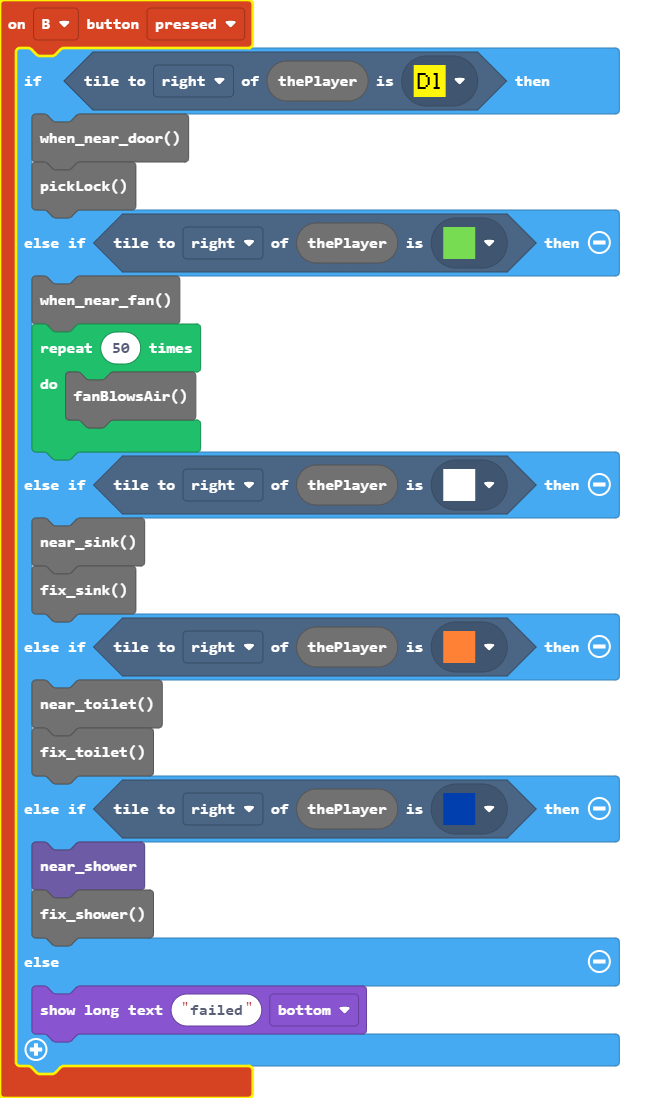
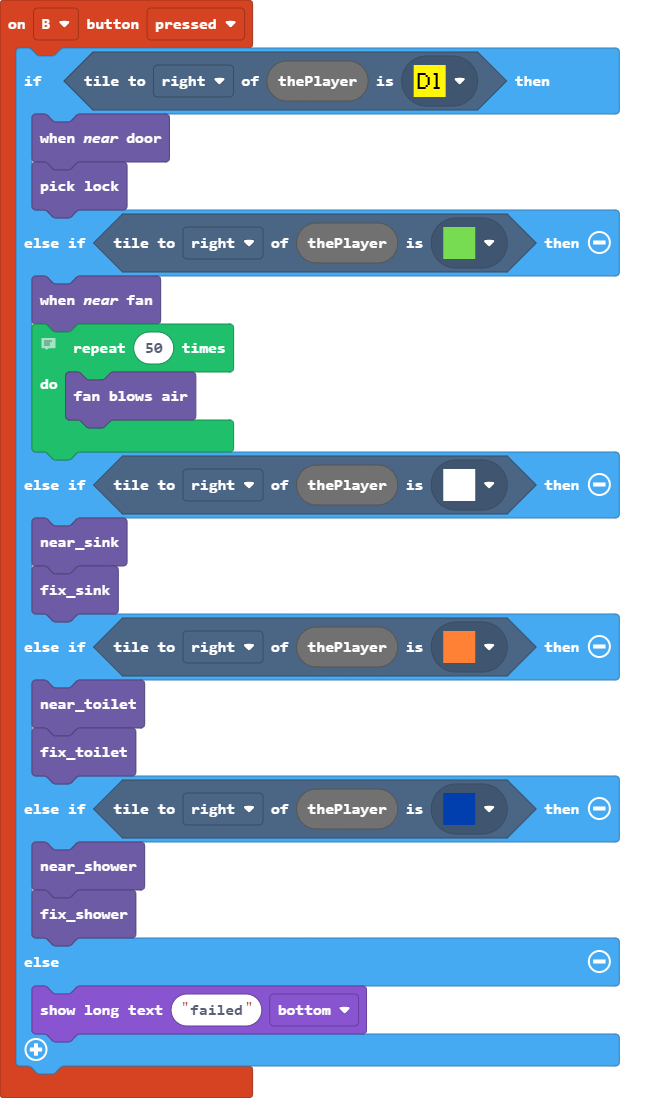
all new blocks in name.ts

Changed region(s): [[0.0, 0.0, 0.3875, 1.0]]

diff --git a/extension.ts b/extension.ts
@@ -34,17 +34,7 @@ sprites.onOverlap(SpriteKind.Projectile, SpriteKind.DustBunny, function (sprite,
     otherSprite.setVelocity(0, 50)
     sprite.destroy()
 })
-// testing
 
-function fix_shower () {
-    if (showerIsFixed) {
-        for (let index = 0; index <= 6; index++) {
-            tiles.setWallAt(tiles.getTileLocation(37, index + 2), false)
-            tiles.setTileAt(tiles.getTileLocation(37, index + 2), sprites.dungeon.floorLight0)
-            pause(200)
-        }
-    }
-}
 sprites.onOverlap(SpriteKind.Player, SpriteKind.DustBunny, function (sprite, otherSprite) {
     dustBunny.startEffect(effects.clouds)
     game.showLongText("Too much dust!", DialogLayout.Bottom)
@@ -67,11 +57,7 @@ function challenge1 () {
     nearDoor = false
     talkedToBear = true
 }
-function near_sink () {
-    if (thePlayer.tileKindAt(TileDirection.Right, myTiles.tile15)) {
-        sinkIsFixed = true
-    }
-}
+
 // interact with npc and other things
 controller.A.onEvent(ControllerButtonEvent.Pressed, function () {
     if (thePlayer.tileKindAt(TileDirection.Right, myTiles.tile5)) {
@@ -93,16 +79,8 @@ controller.A.onEvent(ControllerButtonEvent.Pressed, function () {
     	
     }
 })
-function near_toilet () {
-    if (thePlayer.tileKindAt(TileDirection.Right, myTiles.tile16)) {
-        toiletIsFixed = true
-    }
-}
-function when_near_door () {
-    if (thePlayer.tileKindAt(TileDirection.Right, myTiles.tile5)) {
-        nearDoor = true
-    }
-}
+
+
 /**
  * GOAL --
  * 
@@ -110,88 +88,18 @@ function when_near_door () {
  * 
  *     pickLock
  */
-function pickLock () {
-    // replace if with 'when near door'
-    if (nearDoor) {
-        tiles.setTileAt(tiles.getTileLocation(9, 5), myTiles.tile11)
-        tiles.setWallAt(tiles.getTileLocation(9, 5), false)
-    } else {
-        game.showLongText("The door is still locked", DialogLayout.Bottom)
-    }
-}
-function fix_sink () {
-    if (sinkIsFixed) {
-        for (let index = 0; index <= 6; index++) {
-            tiles.setWallAt(tiles.getTileLocation(35, index + 2), false)
-            tiles.setTileAt(tiles.getTileLocation(35, index + 2), sprites.dungeon.floorLight0)
-            pause(200)
-        }
-    }
-}
+
+
 scene.onOverlapTile(SpriteKind.Player, myTiles.tile11, function (sprite, location) {
     tiles.placeOnTile(thePlayer, tiles.getTileLocation(17, 5))
     createDustBunnies()
 })
-function when_near_fan () {
-    if (thePlayer.tileKindAt(TileDirection.Right, myTiles.tile12) || (thePlayer.tileKindAt(TileDirection.Top, myTiles.tile12) || thePlayer.tileKindAt(TileDirection.Left, myTiles.tile12))) {
-        fanOn = true
-    }
-}
+
 function challenge3 () {
     game.showLongText("The sink, the toilet, and the shower are flooded!", DialogLayout.Bottom)
     game.showLongText("You'll have to fix each to stop the flooding.", DialogLayout.Bottom)
 }
-function fanBlowsAir () {
-    if (fanOn) {
-        fan = sprites.create(img`
-            7 7 7 7 7 7 7 7 7 7 7 7 7 7 7 7 
-            7 7 7 7 7 7 7 7 7 7 7 7 7 7 7 7 
-            7 7 7 7 7 7 7 7 7 7 7 7 7 7 7 7 
-            7 7 7 7 7 7 7 7 7 7 7 7 7 7 7 7 
-            7 7 7 7 7 7 7 7 7 7 7 7 7 7 7 7 
-            7 7 7 7 7 7 7 7 7 7 7 7 7 7 7 7 
-            7 7 7 7 7 7 7 7 7 7 7 7 7 7 7 7 
-            7 7 7 7 7 7 7 7 7 7 7 7 7 7 7 7 
-            7 7 7 7 7 7 7 7 7 7 7 7 7 7 7 7 
-            7 7 7 7 7 7 7 7 7 7 7 7 7 7 7 7 
-            7 7 7 7 7 7 7 7 7 7 7 7 7 7 7 7 
-            7 7 7 7 7 7 7 7 7 7 7 7 7 7 7 7 
-            7 7 7 7 7 7 7 7 7 7 7 7 7 7 7 7 
-            7 7 7 7 7 7 7 7 7 7 7 7 7 7 7 7 
-            7 7 7 7 7 7 7 7 7 7 7 7 7 7 7 7 
-            7 7 7 7 7 7 7 7 7 7 7 7 7 7 7 7 
-            `, SpriteKind.Fan)
-        tiles.placeOnRandomTile(fan, myTiles.tile12)
-        projectile = sprites.createProjectileFromSprite(img`
-            . . . . . . . . . . . . . . . . 
-            . . . . . . . 9 . . . . . . . . 
-            . . . . . . . 9 . . . . . . . . 
-            . . . . . 9 9 . . . . . . . . . 
-            . . . . 9 9 . . . . . . . . . . 
-            . . . . . . . . . . . . . . . . 
-            . . . 9 . . 9 9 . . . . . . . . 
-            . . . 9 . 9 9 9 9 . . . . . . . 
-            . . . 9 . 9 . . 9 . 9 . . . . . 
-            . . . 9 . . . 9 . . . 9 . . . . 
-            . . . 9 9 9 9 9 . . . . 9 . . . 
-            . . . . . . . . 9 9 . . 9 . . . 
-            . . . . . . . 9 9 9 9 . 9 . . . 
-            . . . . . . . 9 . . 9 . 9 9 . . 
-            . . . . . . . 9 9 . . . 9 . . . 
-            . . . . . . . . 9 9 9 9 9 . . . 
-            `, fan, 0, 50)
-    }
-    pause(200)
-}
-function fix_toilet () {
-    if (toiletIsFixed) {
-        for (let index = 0; index <= 6; index++) {
-            tiles.setWallAt(tiles.getTileLocation(36, 7 - index), false)
-            tiles.setTileAt(tiles.getTileLocation(36, 7 - index), sprites.dungeon.floorLight0)
-            pause(200)
-        }
-    }
-}
+
 function createDustBunnies () {
     for (let value of tiles.getTilesByType(myTiles.tile10)) {
         dustBunny = sprites.create(img`

diff --git a/name.ts b/name.ts
@@ -1,8 +1,115 @@
 namespace hoc {
-//% block
-export function near_shower () {
-    if (thePlayer.tileKindAt(TileDirection.Right, myTiles.tile17)) {
-        showerIsFixed = true
+    //%block
+    export function when_near_door () {
+        if (thePlayer.tileKindAt(TileDirection.Right, myTiles.tile5)) {
+            nearDoor = true
+        }
     }
-}
+    //%block
+    export function pickLock () {
+        // replace if with 'when near door'
+        if (nearDoor) {
+            tiles.setTileAt(tiles.getTileLocation(9, 5), myTiles.tile11)
+            tiles.setWallAt(tiles.getTileLocation(9, 5), false)
+        } else {
+            game.showLongText("The door is still locked", DialogLayout.Bottom)
+        }
+    }
+    //%block
+    export function when_near_fan () {
+        if (thePlayer.tileKindAt(TileDirection.Right, myTiles.tile12) || (thePlayer.tileKindAt(TileDirection.Top, myTiles.tile12) || thePlayer.tileKindAt(TileDirection.Left, myTiles.tile12))) {
+            fanOn = true
+        }
+    }
+    //%block
+    export function fanBlowsAir () {
+        if (fanOn) {
+            fan = sprites.create(img`
+                7 7 7 7 7 7 7 7 7 7 7 7 7 7 7 7 
+                7 7 7 7 7 7 7 7 7 7 7 7 7 7 7 7 
+                7 7 7 7 7 7 7 7 7 7 7 7 7 7 7 7 
+                7 7 7 7 7 7 7 7 7 7 7 7 7 7 7 7 
+                7 7 7 7 7 7 7 7 7 7 7 7 7 7 7 7 
+                7 7 7 7 7 7 7 7 7 7 7 7 7 7 7 7 
+                7 7 7 7 7 7 7 7 7 7 7 7 7 7 7 7 
+                7 7 7 7 7 7 7 7 7 7 7 7 7 7 7 7 
+                7 7 7 7 7 7 7 7 7 7 7 7 7 7 7 7 
+                7 7 7 7 7 7 7 7 7 7 7 7 7 7 7 7 
+                7 7 7 7 7 7 7 7 7 7 7 7 7 7 7 7 
+                7 7 7 7 7 7 7 7 7 7 7 7 7 7 7 7 
+                7 7 7 7 7 7 7 7 7 7 7 7 7 7 7 7 
+                7 7 7 7 7 7 7 7 7 7 7 7 7 7 7 7 
+                7 7 7 7 7 7 7 7 7 7 7 7 7 7 7 7 
+                7 7 7 7 7 7 7 7 7 7 7 7 7 7 7 7 
+                `, SpriteKind.Fan)
+            tiles.placeOnRandomTile(fan, myTiles.tile12)
+            projectile = sprites.createProjectileFromSprite(img`
+                . . . . . . . . . . . . . . . . 
+                . . . . . . . 9 . . . . . . . . 
+                . . . . . . . 9 . . . . . . . . 
+                . . . . . 9 9 . . . . . . . . . 
+                . . . . 9 9 . . . . . . . . . . 
+                . . . . . . . . . . . . . . . . 
+                . . . 9 . . 9 9 . . . . . . . . 
+                . . . 9 . 9 9 9 9 . . . . . . . 
+                . . . 9 . 9 . . 9 . 9 . . . . . 
+                . . . 9 . . . 9 . . . 9 . . . . 
+                . . . 9 9 9 9 9 . . . . 9 . . . 
+                . . . . . . . . 9 9 . . 9 . . . 
+                . . . . . . . 9 9 9 9 . 9 . . . 
+                . . . . . . . 9 . . 9 . 9 9 . . 
+                . . . . . . . 9 9 . . . 9 . . . 
+                . . . . . . . . 9 9 9 9 9 . . . 
+                `, fan, 0, 50)
+        }
+        pause(200)
+    }
+    //%block
+    export function near_sink () {
+        if (thePlayer.tileKindAt(TileDirection.Right, myTiles.tile15)) {
+            sinkIsFixed = true
+        }
+    }
+    //%block
+    export function fix_sink () {
+        if (sinkIsFixed) {
+            for (let index = 0; index <= 6; index++) {
+                tiles.setWallAt(tiles.getTileLocation(35, index + 2), false)
+                tiles.setTileAt(tiles.getTileLocation(35, index + 2), sprites.dungeon.floorLight0)
+                pause(200)
+            }
+        }
+    }
+    //% block
+    export function near_shower () {
+        if (thePlayer.tileKindAt(TileDirection.Right, myTiles.tile17)) {
+            showerIsFixed = true
+        }
+    }
+    //% block
+    export function fix_shower () {
+        if (showerIsFixed) {
+            for (let index = 0; index <= 6; index++) {
+                tiles.setWallAt(tiles.getTileLocation(37, index + 2), false)
+                tiles.setTileAt(tiles.getTileLocation(37, index + 2), sprites.dungeon.floorLight0)
+                pause(200)
+            }
+        }
+    }
+    //%block
+    export function near_toilet () {
+        if (thePlayer.tileKindAt(TileDirection.Right, myTiles.tile16)) {
+            toiletIsFixed = true
+        }
+    }
+    //%block
+    export function fix_toilet () {
+        if (toiletIsFixed) {
+            for (let index = 0; index <= 6; index++) {
+                tiles.setWallAt(tiles.getTileLocation(36, 7 - index), false)
+                tiles.setTileAt(tiles.getTileLocation(36, 7 - index), sprites.dungeon.floorLight0)
+                pause(200)
+            }
+        }
+    }
 }

diff --git a/main.ts b/main.ts
@@ -1,21 +1,22 @@
 controller.B.onEvent(ControllerButtonEvent.Pressed, function () {
     if (thePlayer.tileKindAt(TileDirection.Right, myTiles.tile5)) {
-        when_near_door()
-pickLock()
+        hoc.when_near_door()
+        hoc.pickLock()
     } else if (thePlayer.tileKindAt(TileDirection.Right, myTiles.tile12)) {
-        when_near_fan()
-for (let index = 0; index < 50; index++) {
-            fanBlowsAir()
+        hoc.when_near_fan()
+        // fanBlowsAir()
+        for (let index = 0; index < 50; index++) {
+            hoc.fanBlowsAir()
         }
     } else if (thePlayer.tileKindAt(TileDirection.Right, myTiles.tile15)) {
-        near_sink()
-fix_sink()
+        hoc.near_sink()
+        hoc.fix_sink()
     } else if (thePlayer.tileKindAt(TileDirection.Right, myTiles.tile16)) {
-        near_toilet()
-fix_toilet()
+        hoc.near_toilet()
+        hoc.fix_toilet()
     } else if (thePlayer.tileKindAt(TileDirection.Right, myTiles.tile17)) {
         hoc.near_shower()
-        fix_shower()
+        hoc.fix_shower()
     } else {
         game.showLongText("failed", DialogLayout.Bottom)
     }
